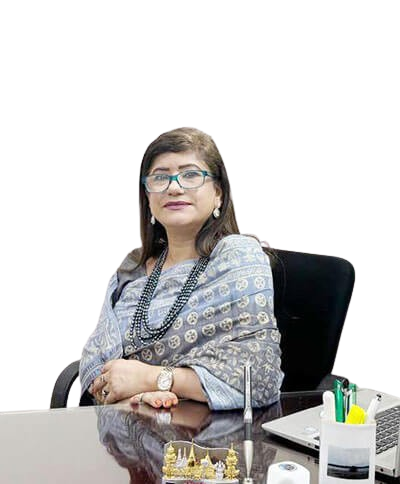
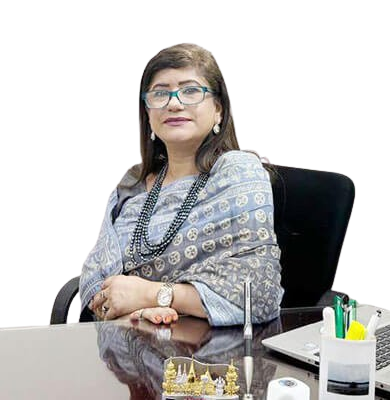
Inside about us page Director Profile card design updated

diff --git a/src/components/custom/about-us/DirectorProfile.tsx b/src/components/custom/about-us/DirectorProfile.tsx
@@ -1,5 +1,61 @@
-import React from 'react'
-import Image from 'next/image'
+// import React from 'react'
+// import Image from 'next/image'
+// import { DirectorProfileDataType } from '@/types'
+
+// type Props = {
+//   data: DirectorProfileDataType
+// }
+
+// function DirectorProfile({ data }: Props) {
+//   return (
+//     <div
+//       className="
+//      2xl:px-12 2xl:py-6 "
+//     >
+//       {/* prfile card */}
+//       <div
+//         className="relative mx-auto
+//       w-[220px] xl:w-[240px] 2xl:w-[280px]
+//       h-[220px] xl:h-[240px] 2xl:h-[280px] "
+//       >
+//         {/* Inner Circle with Image and Beige Background */}
+//         <div
+//           className="
+//     relative w-full h-full rounded-full overflow-hidden z-10
+//     bg-[#D3C59D]
+//     bg-[url('/assets/radar.png')]
+//     lg:bg-none
+//     bg-contain bg-no-repeat bg-center
+//   "
+//         >
+//           <Image
+//             src={data?.image}
+//             alt={data?.title}
+//             fill
+//             className="object-cover lg:scale-[1.30] z-20"
+//           />
+//         </div>
+
+//         {/* Orange curved stroke — placed OUTSIDE clipping context */}
+//         <div
+//           className="hidden lg:block pointer-events-none absolute
+//         lg:-bottom-[15px] 2xl:-bottom-[15px]
+//         lg:-right-[15px] 2xl:-right-[15px]
+//         z-20 rounded-full border-[10px] border-[#ED7125] border-t-transparent border-l-transparent
+//         lg:w-[250px] xl:w-[270px] 2xl:w-[310px]
+//         lg:h-[250px] xl:h-[270px] 2xl:h-[310px]"
+//         />
+//       </div>
+//       <div className="mt-6">
+//         <p className="global-h4 text-[#434342] font-medium text-center">{data?.name}</p>
+//         <p className="global-h4 text-[#9C8639] font-medium text-center">{data?.title}</p>
+//       </div>
+//     </div>
+//   )
+// }
+
+// export default DirectorProfile
+
 import { DirectorProfileDataType } from '@/types'
 
 type Props = {
@@ -9,50 +65,60 @@ type Props = {
 function DirectorProfile({ data }: Props) {
   return (
     <div
-      className="
-     2xl:px-12 2xl:py-6 "
+      className="group
+     hover:bg-[#585859] transition-all duration-200 cursor-pointer
+        p-3 xl:p-5
+      rounded-md"
     >
       {/* prfile card */}
       <div
-        className="relative mx-auto
-      w-[220px] xl:w-[240px] 2xl:w-[280px] 
-      h-[220px] xl:h-[240px] 2xl:h-[280px] "
+        className="relative mx-auto z-0
+      w-[180px] lg:w-[190px] xl:w-[200px] 2xl:w-[280px] 
+      h-[180px] lg:h-[190px] xl:h-[200px] 2xl:h-[280px]
+      mt-8 lg:mt-10 xl:mt-12 2xl:mt-14 "
       >
         {/* Inner Circle with Image and Beige Background */}
-        {/* <div className="relative w-full h-full rounded-full bg-[#D3C59D] overflow-hidden z-10">
-          <Image src={data?.image} alt={data?.title} fill className="object-cover scale-[1.30]" />
-        </div> */}
-
         <div
           className="
-    relative w-full h-full rounded-full overflow-hidden z-10 
+    relative w-full h-full rounded-full z-10 
     bg-[#D3C59D] 
-    bg-[url('/assets/radar.png')] 
-    lg:bg-none
-    bg-contain bg-no-repeat bg-center
+    bg-contain bg-no-repeat bg-center 
   "
         >
-          <Image
+          <img
             src={data?.image}
             alt={data?.title}
-            fill
-            className="object-cover lg:scale-[1.30]"
+            className="absolute z-20 bottom-0
+               
+            w-full
+            h-[220px] lg:h-[240px] xl:h-[260px] 2xl:h-[350px] 
+            rounded-b-full"
           />
         </div>
 
         {/* Orange curved stroke — placed OUTSIDE clipping context */}
         <div
-          className="hidden lg:block pointer-events-none absolute 
-        lg:-bottom-[15px] 2xl:-bottom-[15px] 
-        lg:-right-[15px] 2xl:-right-[15px]
+          className="pointer-events-none absolute 
+       -bottom-[15px] lg:-bottom-[15px] 2xl:-bottom-[15px] 
+       -right-[15px] lg:-right-[15px] 2xl:-right-[15px]
         z-20 rounded-full border-[10px] border-[#ED7125] border-t-transparent border-l-transparent
-        lg:w-[250px] xl:w-[270px] 2xl:w-[310px]
-        lg:h-[250px] xl:h-[270px] 2xl:h-[310px]"
+         w-[210px] lg:w-[220px] xl:w-[230px] 2xl:w-[310px]
+         h-[210px] lg:h-[220px] xl:h-[230px] 2xl:h-[310px]"
         />
       </div>
       <div className="mt-6">
-        <p className="global-h4 text-[#434342] font-medium text-center">{data?.name}</p>
-        <p className="global-h4 text-[#9C8639] font-medium text-center">{data?.title}</p>
+        <p
+          className="text-[14px] lg:text-[16px] xl:text-[18px] 2xl:text-[18px]
+         text-[#434342] group-hover:text-white  uppercase lg:capitalize md:font-medium text-center"
+        >
+          {data?.name}
+        </p>
+        <p
+          className="text-[14px] lg:text-[16px] xl:text-[18px] 2xl:text-[18px]
+         text-[#9C8639] group-hover:text-white  uppercase lg:capitalize md:font-medium text-center"
+        >
+          {data?.title}
+        </p>
       </div>
     </div>
   )

diff --git a/src/components/custom/about-us/DirectorListSection.tsx b/src/components/custom/about-us/DirectorListSection.tsx
@@ -1,18 +1,35 @@
-import {
-  Carousel,
-  CarouselContent,
-  CarouselItem,
-  CarouselNext,
-  CarouselPrevious,
-} from '@/components/ui/carousel'
+'use client'
+
+import { Carousel, CarouselApi, CarouselContent, CarouselItem } from '@/components/ui/carousel'
 import { DirectorProfileDataType } from '@/types'
+import CarouselNavButtons from '../shared/CarousalNavButtons'
 import DirectorProfile from './DirectorProfile'
+import { useEffect, useState } from 'react'
 
 type Props = {
   directorProfileData: DirectorProfileDataType[]
 }
 
 function DirectorListSection({ directorProfileData }: Props) {
+  const [carouselApi, setCarouselApi] = useState<CarouselApi | null>(null)
+  const [canScrollPrev, setCanScrollPrev] = useState(false)
+  const [canScrollNext, setCanScrollNext] = useState(false)
+
+  useEffect(() => {
+    if (!carouselApi) return
+
+    const updateScrollButtons = () => {
+      setCanScrollPrev(carouselApi.canScrollPrev())
+      setCanScrollNext(carouselApi.canScrollNext())
+    }
+
+    updateScrollButtons()
+    carouselApi.on('select', updateScrollButtons)
+
+    return () => {
+      carouselApi.off('select', updateScrollButtons)
+    }
+  }, [carouselApi])
   return (
     <div className="bg-white pb-12 lg:pb-0">
       <div className="container-padding">
@@ -20,7 +37,7 @@ function DirectorListSection({ directorProfileData }: Props) {
         <div className="lg:w-[50%] space-y-6 2xl:space-y-12 ">
           <div
             className="global-h1 font-semibold text-[#4A4A4A] 
-          flex space-x-2 justify-center lg:block lg:space-x-0 lg:justify-start"
+          flex space-x-1 justify-center lg:block lg:space-x-0 lg:justify-start flex-wrap"
           >
             <h1>The Power of One</h1>
             <h1 className="text-[#ED7125]">Connected Vision</h1>
@@ -35,7 +52,7 @@ function DirectorListSection({ directorProfileData }: Props) {
         </div>
 
         {/* profile card list */}
-        <div className="hidden lg:grid grid-cols-1 md:grid-cols-2 lg:grid-cols-3 gap-2 mt-12">
+        <div className="hidden lg:grid grid-cols-1 md:grid-cols-2 lg:grid-cols-3 gap-2 lg:gap-3 xl:gap-12 2xl:gap-2 mt-12">
           {directorProfileData?.map((data, index) => <DirectorProfile key={index} data={data} />)}
         </div>
 
@@ -46,6 +63,7 @@ function DirectorListSection({ directorProfileData }: Props) {
               align: 'start',
             }}
             className="w-full max-w-[95%] mx-auto"
+            setApi={setCarouselApi}
           >
             <CarouselContent>
               {directorProfileData?.map((data, index) => (
@@ -59,17 +77,11 @@ function DirectorListSection({ directorProfileData }: Props) {
               className="flex gap-2 absolute
             inset-x-0 justify-center lg:justify-end -bottom-16 md:-bottom-20 lg:-top-8 2xl:-top-12 lg:right-0"
             >
-              <CarouselPrevious
-                className="
-         w-6 xl:w-8 
-         h-6 xl:h-8 
-        static rounded-full border border-gray-400 bg-white text-gray-700 flex items-center justify-center hover:bg-gray-100 transition"
-              />
-              <CarouselNext
-                className="
-         px-6 xl:px-9 
-         h-6 xl:h-8
-        static rounded-full bg-orange-500 text-white flex items-center justify-center hover:bg-orange-600 transition"
+              <CarouselNavButtons
+                onPrev={() => carouselApi?.scrollPrev()}
+                onNext={() => carouselApi?.scrollNext()}
+                hasPrev={canScrollPrev}
+                hasNext={canScrollNext}
               />
             </div>
           </Carousel>

diff --git a/src/app/(frontend)/styles.css b/src/app/(frontend)/styles.css
@@ -139,12 +139,12 @@
   .global-h3 {
     /* @apply text-[18px] md:text-[20px] lg:text-[26px] xl:text-[30px] 2xl:text-[38px]; */
     @apply text-[15px] md:text-[20px] lg:text-[22px] xl:text-[24px] 2xl:text-[32px]
-    leading-6 md:leading-7 lg:leading-10 xl:leading-[35px] 2xl:leading-[45px];
+    leading-6 md:leading-7 xl:leading-[35px] 2xl:leading-[45px];
   }
   .global-h4 {
     /* @apply text-[14px] md:text-[16px] lg:text-[18px] xl:text-[20px] 2xl:text-[22px]; */
     @apply text-[10px] md:text-[14px] lg:text-[16px] xl:text-[18px] 2xl:text-[20px]
-    leading-6 md:leading-7 lg:leading-10 xl:leading-[25px] 2xl:leading-[35px];
+    leading-6 md:leading-7  xl:leading-[25px] 2xl:leading-[35px];
   }
   .global-p1 {
     /* @apply text-[12px] md:text-[16px] lg:text-[18px] xl:text-[22px] 2xl:text-[26px]; */

diff --git a/src/components/custom/about-us/AllOfThemCard.tsx b/src/components/custom/about-us/AllOfThemCard.tsx
@@ -87,8 +87,12 @@ function AllOfThemCard({ data }: Props) {
 
       {/* Name & Title */}
       <div className="mt-6 text-center">
-        <p className="text-[#434342] font-light lg:font-medium global-h4">{data?.name}</p>
-        <p className="text-[#9C8639] font-light lg:font-medium global-h4">{data?.title}</p>
+        <p className="text-[#434342] font-light lg:font-medium text-[14px] lg:text-[16px] xl:text-[18px] 2xl:text-[18px] uppercase lg:capitalize">
+          {data?.name}
+        </p>
+        <p className="text-[#9C8639] font-light lg:font-medium text-[14px] lg:text-[16px] xl:text-[18px] 2xl:text-[18px] uppercase lg:capitalize">
+          {data?.title}
+        </p>
       </div>
     </div>
   )
